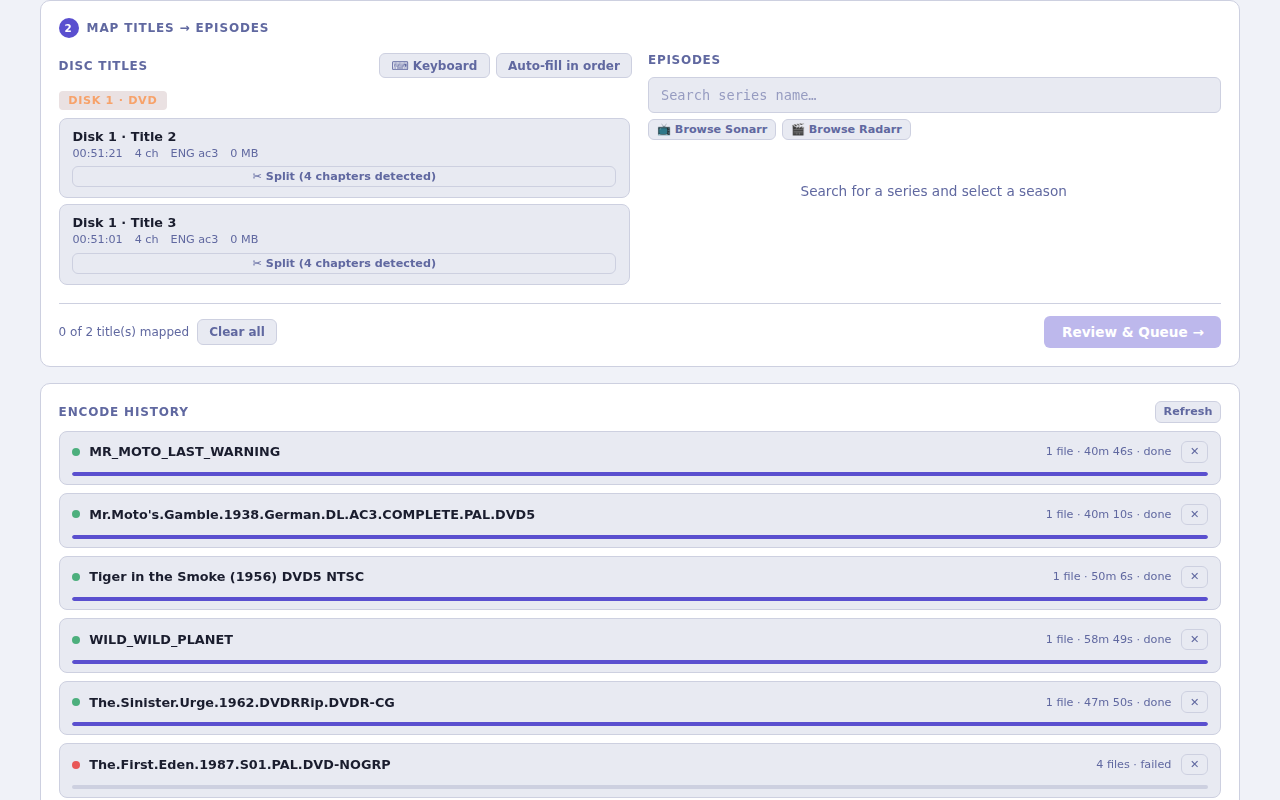
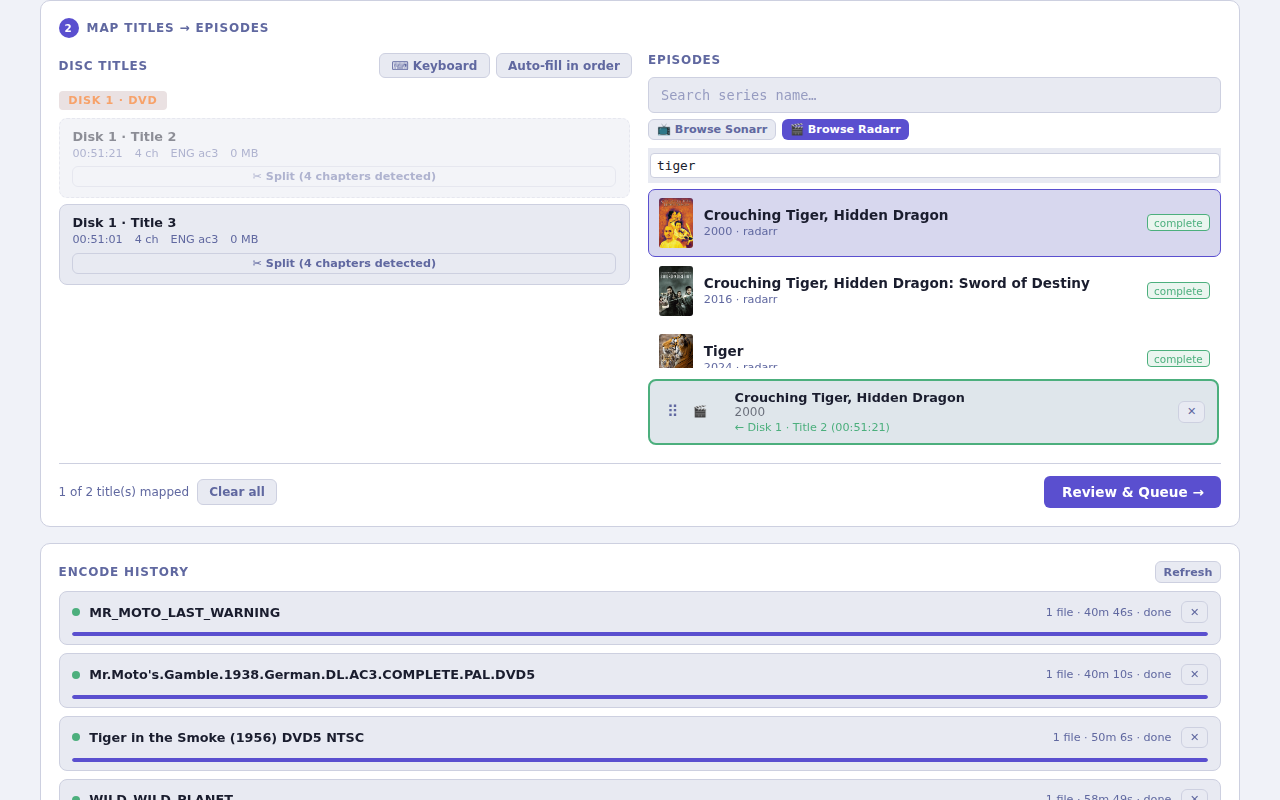
docs: add Radarr workflow screenshots and update quickstart
- Add 03-radarr-filter.png: browse + filter movies by partial title
- Add 04-radarr-selected.png: movie selected in browse panel
- Add 05-mapped.png: completed drag-and-drop title mapping
- Update 03-title-mapping.png to completed-state screenshot
- docs/integrations/radarr.md: add workflow section with 3 annotated screenshots
- docs/quickstart.md: rewrite step 5 with browse/filter/drag workflow
- README.md and docs/index.md: use completed-mapping screenshot

diff --git a/docs/integrations/radarr.md b/docs/integrations/radarr.md
@@ -24,7 +24,31 @@ RADARR_API_KEY=your-radarr-api-key
 
 Find your API key in Radarr under **Settings → General → Security → API Key**.
 
-## 3. How it works
+## 3. Map disc titles to movies
+
+When you scan a disc in Discarr, each title needs to be mapped to a Radarr movie before it can be queued for encoding.
+
+### Browse Radarr movies
+
+Click **Browse Radarr** to open your movie library, then use the search box to filter by title:
+
+![Radarr browse panel — search box filtering results to show matching movies](../screenshots/03-radarr-filter.png)
+
+### Select and map
+
+Click the movie to select it. The title card on the left automatically links to the selected movie:
+
+![Radarr movie selected — disc title mapped to Crouching Tiger, Hidden Dragon](../screenshots/04-radarr-selected.png)
+
+### Drag a title to confirm the mapping
+
+Drag the title card from the left panel and drop it onto the matching movie slot on the right. A green border confirms the mapping:
+
+![Title mapping complete — disc title dragged to movie slot, Review & Queue button active](../screenshots/05-mapped.png)
+
+Once all titles are mapped, click **Review & Queue →** to start encoding.
+
+## 4. How it works
 
 ```
 Encode completes
@@ -37,6 +61,6 @@ radarr-notify.sh
 Radarr imports file
 ```
 
-## 4. Test the connection
+## 5. Test the connection
 
 Click **Test** on the connection in Radarr. To test end-to-end, queue a movie encode in Discarr and watch **Activity → Queue** in Radarr for the import.

diff --git a/docs/quickstart.md b/docs/quickstart.md
@@ -59,15 +59,21 @@ Open **http://localhost:8603**.
 
 ## 5. Map titles to arr items
 
-![Title mapping — disc titles on the left, Sonarr/Radarr search on the right](screenshots/03-title-mapping.png)
-
-
 For each title:
 
 1. Choose **TV (Sonarr)** or **Movie (Radarr)**
-2. Search for the series or movie name
-3. For TV: select the season and episode(s) the title maps to
-4. Click **Queue**
+2. Click **Browse Sonarr** or **Browse Radarr** to open your library
+3. Type a partial title in the search box to filter results
+
+    ![Browse Radarr: filtering by partial title](screenshots/03-radarr-filter.png)
+
+4. Drag the title card from the left panel and drop it onto the slot on the right
+
+    ![Title mapping complete: disc title mapped, Review & Queue button active](screenshots/05-mapped.png)
+
+    A green border confirms the mapping. The counter updates (e.g. "1 of 2 title(s) mapped").
+
+5. Repeat for each unmapped title, then click **Review & Queue →**
 
 ## 6. Monitor the encode
 

diff --git a/docs/index.md b/docs/index.md
@@ -8,9 +8,9 @@ Discarr is a self-hosted web UI that bridges disc ripping (VIDEO_TS / BDMV / ISO
 
 ## Screenshots
 
-![Discarr main UI — scan source and encode history](screenshots/01-main.png)
+![Discarr main UI: scan source and encode history](screenshots/01-main.png)
 
-![Title mapping — map disc titles to Sonarr episodes](screenshots/03-title-mapping.png)
+![Title mapping: completed drag-and-drop assignment with Review & Queue active](screenshots/05-mapped.png)
 
 ## How it works
 

diff --git a/README.md b/README.md
@@ -20,9 +20,9 @@ No npm packages. No Python. No config files to edit by hand — just a browser, 
 
 ## Screenshots
 
-![Discarr — main UI](docs/screenshots/01-main.png)
+![Discarr: main UI showing scan source and encode history](docs/screenshots/01-main.png)
 
-![Discarr — title mapping](docs/screenshots/03-title-mapping.png)
+![Discarr: title mapping with completed drag-and-drop assignment](docs/screenshots/05-mapped.png)
 
 ---
 
